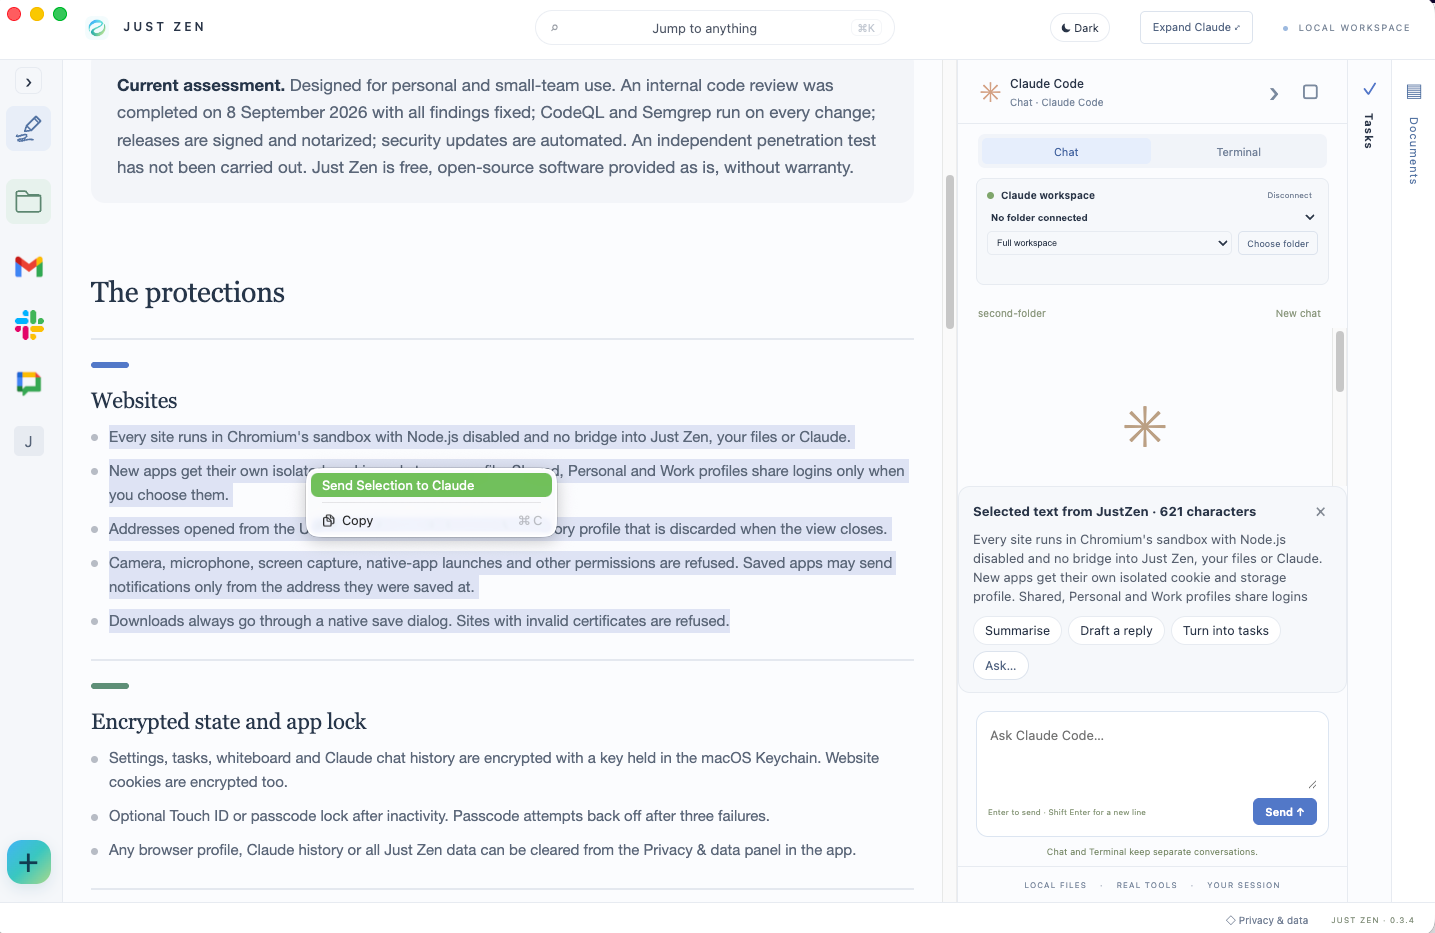
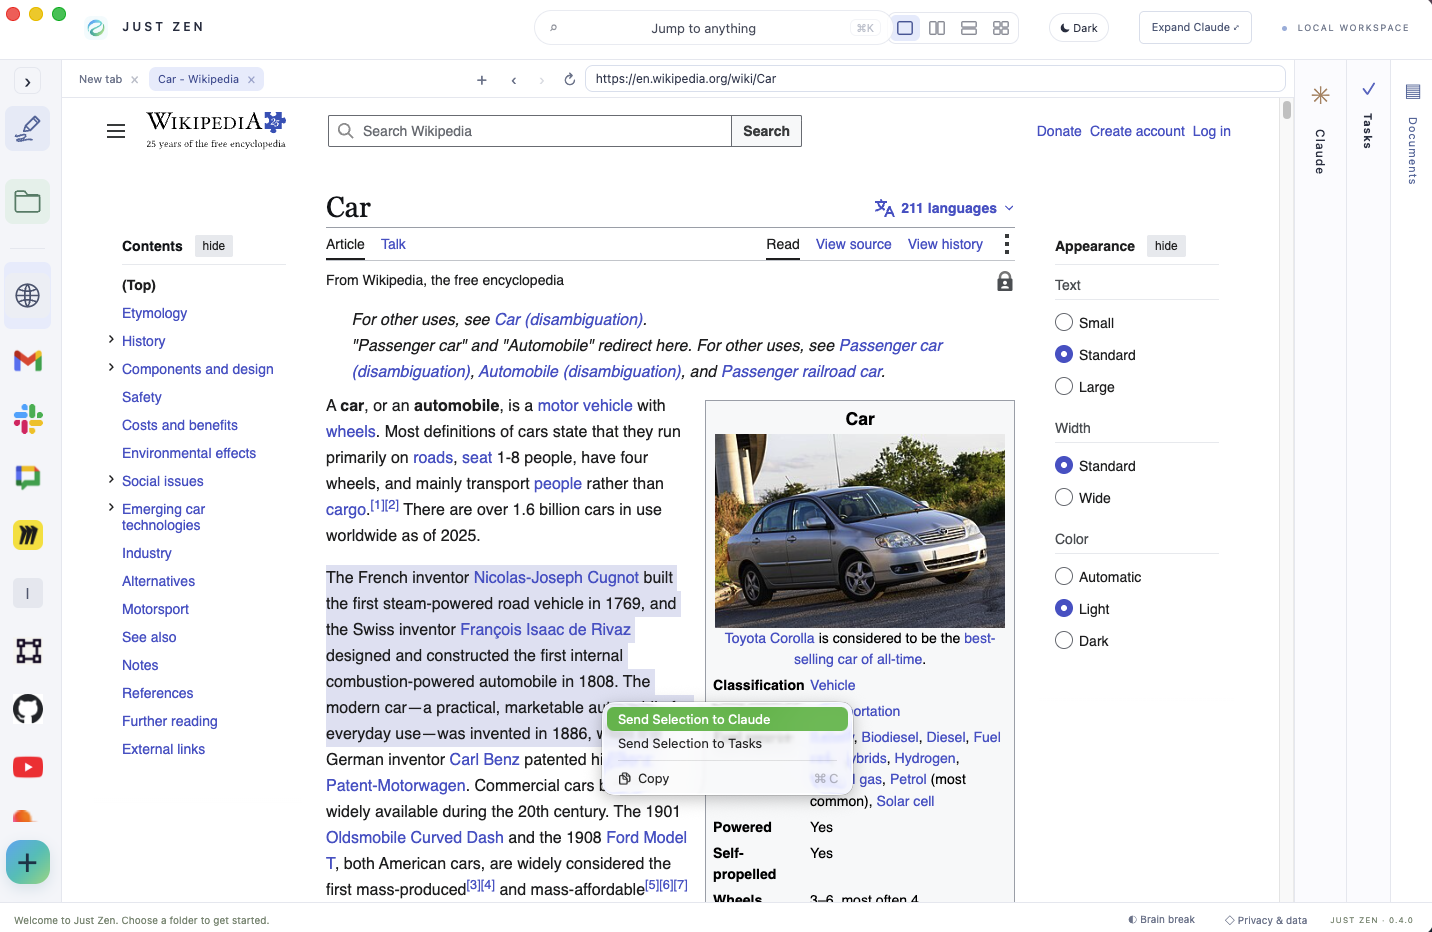
Website: new hero screenshot showing the Browser tabs and Send to Tasks; tour stops for tabs and layouts

diff --git a/docs/index.html b/docs/index.html
@@ -36,7 +36,7 @@
   <div class="tour-head"><h2>Everything you do all day. One window.</h2><div class="tabs" role="tablist" aria-label="Parts of the window"></div></div>
   <div class="frame">
     <div class="bar"><i></i><i></i><i></i></div>
-    <div class="pic"><img src="hero.png" alt="Just Zen: web apps down the left, a page open in the centre with text selected and a right-click menu offering Send Selection to Claude, and the selection sitting in the Claude pane on the right with Summarise, Draft a reply and Turn into tasks actions" width="1435" height="933">
+    <div class="pic"><img src="hero.png" alt="Just Zen: apps down the left, the pinned Browser open in the centre with two tabs and a Wikipedia article, a paragraph selected and a right-click menu offering Send Selection to Claude and Send Selection to Tasks, with the Claude, Tasks and Documents rails folded away on the right" width="1432" height="932">
     <div class="spot" aria-hidden="true" hidden></div></div>
   </div>
   <div class="caption" aria-live="polite"><b></b><p></p></div>
@@ -45,11 +45,13 @@
 (()=>{
   // Regions are percentages of the screenshot, so the highlight lands on the same part at any size.
   const stops=[
-    ['Centre pane',{x:4.3,y:6,w:61.6,h:91},'Whatever you are working in sits in the centre: a web app, the whiteboard, your notes or a document. Split it into two or four apps when you need them together; every app has its own tabs.'],
-    ['Claude',{x:66.8,y:6,w:27.2,h:91},'Claude Code lives in the right-hand pane. It reads the folder you connect and works while your apps stay open.'],
-    ['Apps',{x:0,y:6,w:4.3,h:91},'Gmail, Outlook, Slack, WhatsApp, Teams and any website you add sit down the left, each with its own login. A Browser is pinned at the top, related apps can be grouped behind one icon, and several Slack workspaces open as tabs in one pane.'],
-    ['Tasks',{x:94.2,y:6,w:2.9,h:91},'Your task list slides out from the right rail and stays one click away. Select text anywhere and press ⌘⇧T to make it a task.'],
-    ['Documents',{x:97.2,y:6,w:2.8,h:91},'Open PDFs and Word files beside your apps, annotate them and save a copy, without leaving the window.']
+    ['Centre pane',{x:4.4,y:6,w:86.2,h:91},'Whatever you are working in sits in the centre: a web app, the whiteboard, your notes or a document. Select any text and send it to Claude or straight to your tasks.'],
+    ['Tabs',{x:4.4,y:6.2,w:86.2,h:4.6},'Every app has its own tabs. Here the pinned Browser has two open; Slack can hold one per workspace. ⌘T opens a tab, ⌘W closes it.'],
+    ['Layouts',{x:61.5,y:0.8,w:10.3,h:4.6},'Four buttons in the header split the centre into one, two or four apps, so the brief can sit next to the design and the inbox next to the calendar.'],
+    ['Apps',{x:0,y:6,w:4.4,h:91},'Gmail, Slack, Teams and any website you add sit down the left, each with its own login. The Browser is pinned at the top and related apps can be grouped behind one icon.'],
+    ['Claude',{x:90.6,y:6,w:3.3,h:91},'Claude Code lives in the right-hand pane, folded away here. It reads the folder you connect and works while your apps stay open.'],
+    ['Tasks',{x:93.9,y:6,w:3.1,h:91},'Your task list slides out from the right rail and stays one click away. Select text anywhere and press ⌘⇧T to make it a task.'],
+    ['Documents',{x:97,y:6,w:3,h:91},'Open PDFs and Word files beside your apps, annotate them and save a copy, without leaving the window.']
   ];
   const tabs=document.querySelector('#tour .tabs'),spot=document.querySelector('#tour .spot'),title=document.querySelector('#tour .caption b'),text=document.querySelector('#tour .caption p');
   let current=0;
